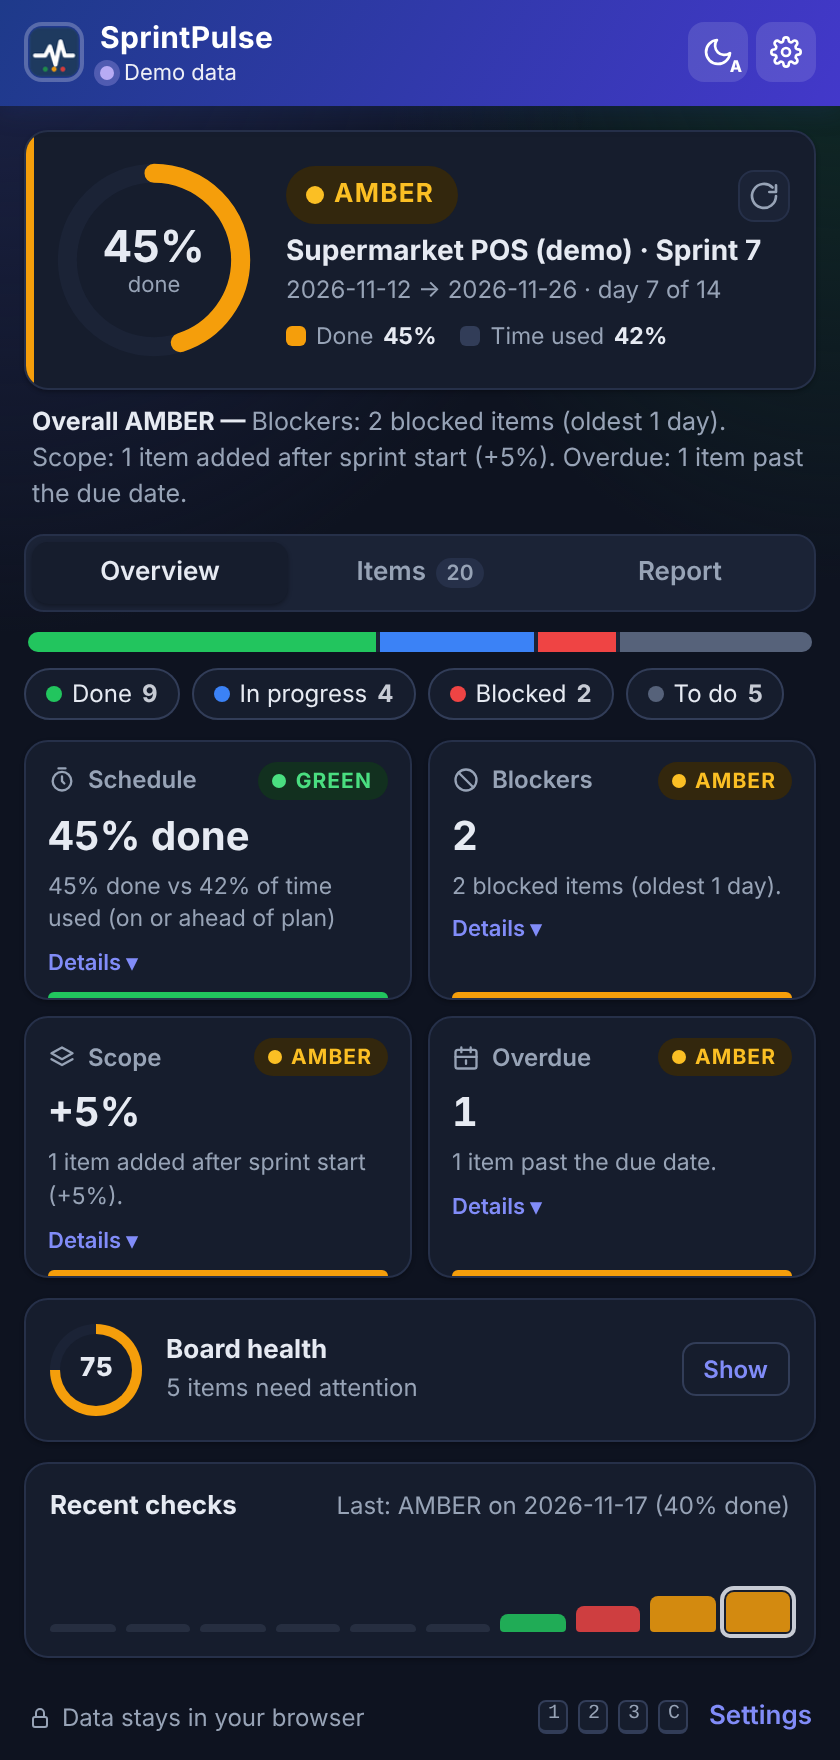
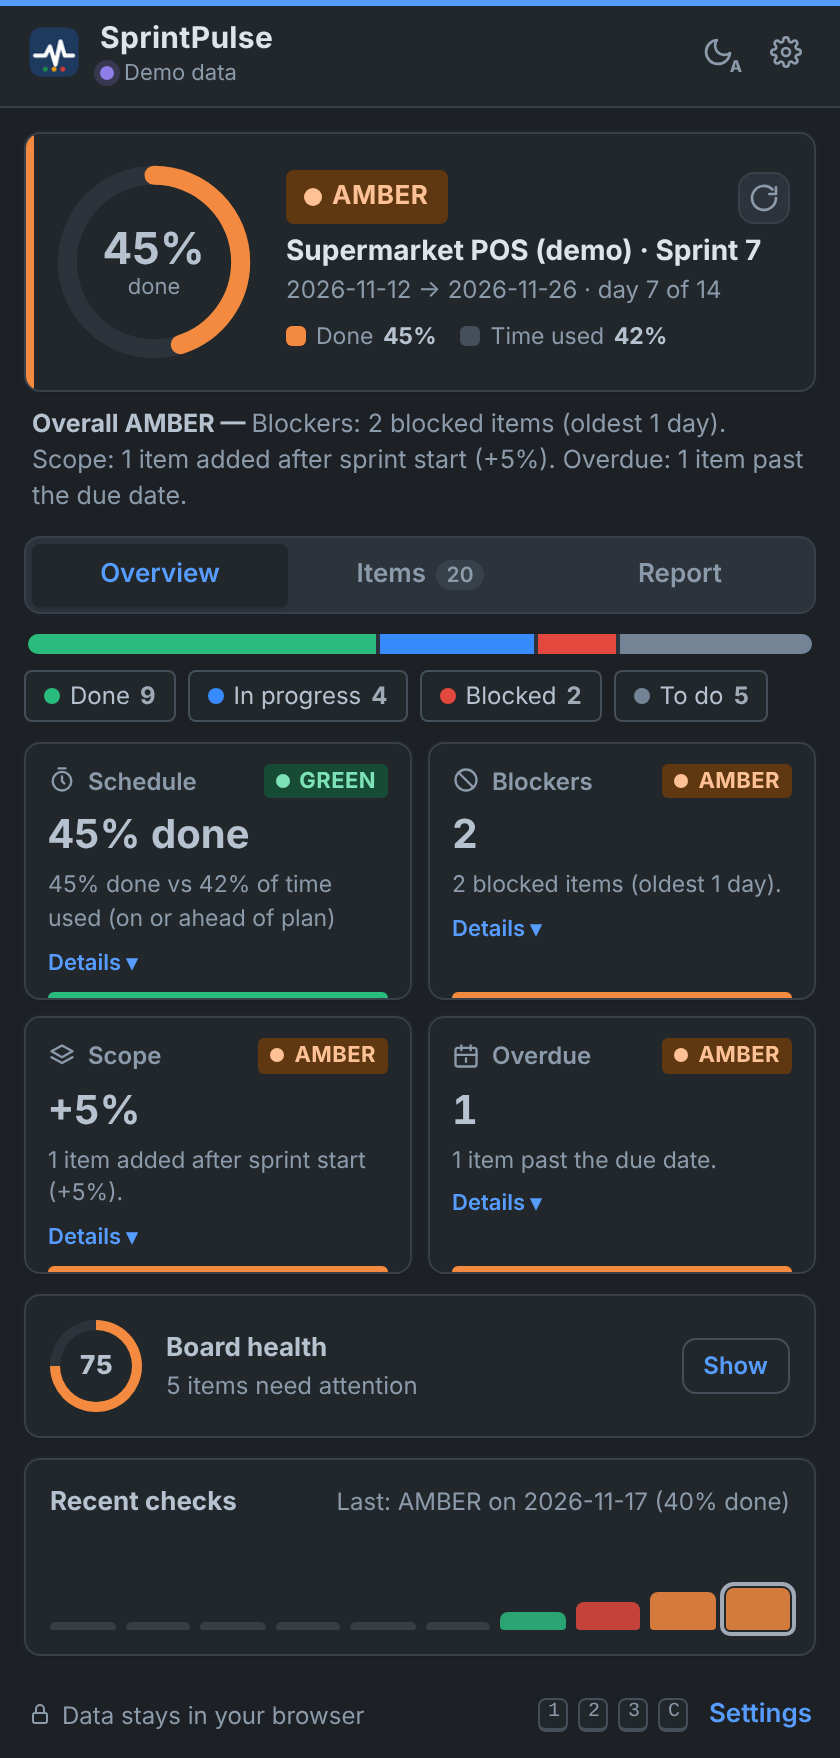
Match the colour palette to Jira (Atlassian) and Trello defaults
- Neutrals, text, borders and shadows follow the Atlassian design-system palette (light and dark)
- Jira blue accent by default; Trello blue when a Trello board is detected
- RAG lozenges use Atlassian success / warning / danger colours, always with text labels
- White header with accent strip, squarer 3-8px radii like Jira lozenges and buttons
- Atlassian system font stack; navy tooltips and toasts

diff --git a/popup.css b/popup.css
@@ -1,73 +1,85 @@
-/* SprintPulse UI — light & dark themes, no external assets. */
+/* SprintPulse UI. Colours follow the Atlassian (Jira) design-system palette so the popup
+   sits naturally next to Jira; the accent switches to Trello blue on Trello boards. */
 @property --p { syntax: "<number>"; inherits: false; initial-value: 0; }
 :root {
   color-scheme: light;
-  --bg: #f3f5f9;
-  --bg-grad: radial-gradient(120% 60% at 0% 0%, #e7edff 0%, transparent 60%), radial-gradient(100% 60% at 100% 0%, #e9f7f1 0%, transparent 55%);
+  --bg: #f7f8f9;
+  --bg-grad: none;
   --card: #ffffff;
-  --card-2: #f7f9fc;
-  --text: #17202c;
-  --muted: #5f6c7d;
-  --line: #e2e7ef;
-  --line-2: #d3dae5;
-  --brand-1: #1e3a8a;
-  --brand-2: #4338ca;
-  --accent: #4f46e5;
-  --accent-hover: #4338ca;
-  --accent-soft: #eef0ff;
-  --green: #15803d;  --green-bg: #e3f6ea;  --green-solid: #22c55e;
-  --amber: #a85b00;  --amber-bg: #fff1d6;  --amber-solid: #f59e0b;
-  --red: #b91c1c;    --red-bg: #fde6e6;    --red-solid: #ef4444;
-  --blue-solid: #3b82f6;
-  --grey-solid: #a3aec0;
-  --shadow: 0 1px 2px rgba(16, 24, 40, .05), 0 2px 8px rgba(16, 24, 40, .05);
-  --shadow-lg: 0 10px 30px rgba(16, 24, 40, .14);
-  --radius: 12px;
+  --card-2: #f1f2f4;
+  --text: #172b4d;
+  --text-strong: #091e42;
+  --muted: #626f86;
+  --line: #dcdfe4;
+  --line-2: #b3b9c4;
+  --accent: #0c66e4;
+  --accent-hover: #0055cc;
+  --accent-soft: #e9f2ff;
+  --on-accent: #ffffff;
+  --green: #216e4e;  --green-bg: #dcfff1;  --green-solid: #22a06b;
+  --amber: #a54800;  --amber-bg: #fff3eb;  --amber-solid: #f38a3f;
+  --red: #ae2e24;    --red-bg: #ffeceb;    --red-solid: #e2483d;
+  --blue-solid: #1d7afc;
+  --grey-solid: #8590a2;
+  --shadow: 0 1px 1px #091e4240, 0 0 1px #091e424f;
+  --shadow-lg: 0 8px 12px #091e4226, 0 0 1px #091e424f;
+  --radius: 8px;
+  --radius-sm: 4px;
   --ease: cubic-bezier(.2, .8, .2, 1);
 }
+/* Trello boards: Trello blue accent */
+:root[data-source="trello"] { --accent: #0079bf; --accent-hover: #026aa7; --accent-soft: #e4f0f6; }
 
 @media (prefers-color-scheme: dark) {
   :root:not([data-theme="light"]) {
     color-scheme: dark;
-    --bg: #0e1320;
-    --bg-grad: radial-gradient(120% 60% at 0% 0%, #1b2246 0%, transparent 60%), radial-gradient(100% 60% at 100% 0%, #0f2a25 0%, transparent 55%);
-    --card: #161d2d;
-    --card-2: #1b2336;
-    --text: #e6eaf2;
-    --muted: #97a3b6;
-    --line: #263049;
-    --line-2: #323d58;
-    --accent: #818cf8;
-    --accent-hover: #a5b4fc;
-    --accent-soft: #232a4d;
-    --green: #4ade80;  --green-bg: #12301f;
-    --amber: #fbbf24;  --amber-bg: #33270d;
-    --red: #f87171;    --red-bg: #3a1717;
-    --grey-solid: #56627a;
-    --shadow: 0 1px 2px rgba(0, 0, 0, .3);
-    --shadow-lg: 0 12px 30px rgba(0, 0, 0, .5);
+    --bg: #1d2125;
+    --bg-grad: none;
+    --card: #22272b;
+    --card-2: #2c333a;
+    --text: #b6c2cf;
+    --text-strong: #dee4ea;
+    --muted: #8c9bab;
+    --line: #38414a;
+    --line-2: #454f59;
+    --accent: #579dff;
+    --accent-hover: #85b8ff;
+    --accent-soft: #1c2b41;
+    --on-accent: #1d2125;
+    --green: #7ee2b8;  --green-bg: #164b35;  --green-solid: #2abb7f;
+    --amber: #fec195;  --amber-bg: #5f3811;  --amber-solid: #f38a3f;
+    --red: #fd9891;    --red-bg: #5d1f1a;    --red-solid: #e2483d;
+    --blue-solid: #388bff;
+    --grey-solid: #738496;
+    --shadow: 0 0 0 1px #bcd6f00a, 0 1px 1px #03040442, 0 0 1px #03040480;
+    --shadow-lg: 0 8px 12px #0304045c, 0 0 1px #03040480;
   }
+  :root[data-source="trello"]:not([data-theme="light"]) { --accent: #579dff; --accent-hover: #85b8ff; --accent-soft: #092957; }
 }
 :root[data-theme="dark"] {
   color-scheme: dark;
-  --bg: #0e1320;
-  --bg-grad: radial-gradient(120% 60% at 0% 0%, #1b2246 0%, transparent 60%), radial-gradient(100% 60% at 100% 0%, #0f2a25 0%, transparent 55%);
-  --card: #161d2d;
-  --card-2: #1b2336;
-  --text: #e6eaf2;
-  --muted: #97a3b6;
-  --line: #263049;
-  --line-2: #323d58;
-  --accent: #818cf8;
-  --accent-hover: #a5b4fc;
-  --accent-soft: #232a4d;
-  --green: #4ade80;  --green-bg: #12301f;
-  --amber: #fbbf24;  --amber-bg: #33270d;
-  --red: #f87171;    --red-bg: #3a1717;
-  --grey-solid: #56627a;
-  --shadow: 0 1px 2px rgba(0, 0, 0, .3);
-  --shadow-lg: 0 12px 30px rgba(0, 0, 0, .5);
+  --bg: #1d2125;
+  --bg-grad: none;
+  --card: #22272b;
+  --card-2: #2c333a;
+  --text: #b6c2cf;
+  --text-strong: #dee4ea;
+  --muted: #8c9bab;
+  --line: #38414a;
+  --line-2: #454f59;
+  --accent: #579dff;
+  --accent-hover: #85b8ff;
+  --accent-soft: #1c2b41;
+  --on-accent: #1d2125;
+  --green: #7ee2b8;  --green-bg: #164b35;  --green-solid: #2abb7f;
+  --amber: #fec195;  --amber-bg: #5f3811;  --amber-solid: #f38a3f;
+  --red: #fd9891;  --red-bg: #5d1f1a;  --red-solid: #e2483d;
+  --blue-solid: #388bff;
+  --grey-solid: #738496;
+  --shadow: 0 0 0 1px #bcd6f00a, 0 1px 1px #03040442, 0 0 1px #03040480;
+  --shadow-lg: 0 8px 12px #0304045c, 0 0 1px #03040480;
 }
+:root[data-theme="dark"][data-source="trello"] { --accent: #579dff; --accent-hover: #85b8ff; --accent-soft: #092957; }
 
 * { box-sizing: border-box; }
 [hidden] { display: none !important; }
@@ -77,7 +89,7 @@ body {
   width: 420px;
   min-height: 300px;
   margin: 0;
-  font: 13px/1.45 "Segoe UI", system-ui, -apple-system, Roboto, Helvetica, Arial, sans-serif;
+  font: 13px/1.45 -apple-system, BlinkMacSystemFont, "Segoe UI", Roboto, Oxygen, Ubuntu, "Fira Sans", "Helvetica Neue", sans-serif;
   color: var(--text);
   background: var(--bg-grad), var(--bg);
   -webkit-font-smoothing: antialiased;
@@ -90,30 +102,31 @@ svg { width: 16px; height: 16px; fill: none; stroke: currentColor; stroke-width:
   position: sticky; top: 0; z-index: 5;
   display: flex; align-items: center; justify-content: space-between;
   padding: 10px 12px 10px 14px;
-  background: linear-gradient(120deg, var(--brand-1), var(--brand-2));
-  color: #fff;
-  box-shadow: 0 2px 12px rgba(30, 58, 138, .25);
+  background: var(--card);
+  color: var(--text-strong);
+  border-bottom: 1px solid var(--line);
+  box-shadow: inset 0 3px 0 var(--accent);
 }
 .brand { display: flex; align-items: center; gap: 10px; }
-.brand img { border-radius: 7px; box-shadow: 0 0 0 2px rgba(255, 255, 255, .25); }
+.brand img { border-radius: 6px; }
 .brand-text { display: flex; flex-direction: column; line-height: 1.15; }
 .brand-name { font-weight: 700; font-size: 15px; letter-spacing: .01em; }
-.badge { display: inline-flex; align-items: center; gap: 5px; margin-top: 3px; font-size: 11px; opacity: .92; }
-.badge .dot { width: 7px; height: 7px; border-radius: 50%; background: #cbd5e1; }
-.badge.jira .dot { background: #60a5fa; box-shadow: 0 0 0 3px rgba(96, 165, 250, .3); }
-.badge.trello .dot { background: #38bdf8; box-shadow: 0 0 0 3px rgba(56, 189, 248, .3); }
-.badge.demo .dot { background: #c4b5fd; box-shadow: 0 0 0 3px rgba(196, 181, 253, .3); }
-.badge.none .dot { background: #fca5a5; }
+.badge { display: inline-flex; align-items: center; gap: 5px; margin-top: 3px; font-size: 11px; color: var(--muted); }
+.badge .dot { width: 7px; height: 7px; border-radius: 50%; background: var(--grey-solid); }
+.badge.jira .dot { background: #1868db; box-shadow: 0 0 0 3px #1868db33; }
+.badge.trello .dot { background: #0079bf; box-shadow: 0 0 0 3px #0079bf33; }
+.badge.demo .dot { background: #8f7ee7; box-shadow: 0 0 0 3px #8f7ee733; }
+.badge.none .dot { background: var(--red-solid); }
 
 .top-actions { display: flex; gap: 4px; }
 .icon-btn {
   display: grid; place-items: center;
   width: 30px; height: 30px; padding: 0;
   border-radius: 8px; border: 0;
-  background: rgba(255, 255, 255, .12); color: inherit; cursor: pointer;
+  background: transparent; color: var(--muted); cursor: pointer;
   transition: background .15s, transform .15s var(--ease);
 }
-.icon-btn:hover { background: rgba(255, 255, 255, .24); }
+.icon-btn:hover { background: var(--card-2); color: var(--accent); }
 .icon-btn:active { transform: scale(.92); }
 .icon-btn.small { width: 26px; height: 26px; background: var(--card-2); color: var(--muted); border: 1px solid var(--line); }
 .icon-btn.small:hover { color: var(--accent); border-color: var(--accent); background: var(--accent-soft); }
@@ -144,7 +157,7 @@ a { color: var(--accent); }
 .intro-head { display: flex; gap: 12px; align-items: flex-start; margin-bottom: 10px; }
 .intro-title { margin: 0 0 2px; font-size: 15px; }
 .intro-text { margin: 0; color: var(--muted); }
-.pulse-mark { flex: none; display: flex; align-items: end; gap: 3px; width: 36px; height: 36px; padding: 8px; border-radius: 10px; background: var(--accent-soft); }
+.pulse-mark { flex: none; display: flex; align-items: end; gap: 3px; width: 36px; height: 36px; padding: 8px; border-radius: var(--radius); background: var(--accent-soft); }
 .pulse-mark span { flex: 1; border-radius: 2px; background: var(--accent); animation: bars 1.2s ease-in-out infinite; }
 .pulse-mark span:nth-child(1) { height: 40%; }
 .pulse-mark span:nth-child(2) { height: 90%; animation-delay: .15s; }
@@ -157,7 +170,7 @@ a { color: var(--accent); }
 .field .opt { font-weight: 400; opacity: .8; }
 .field input {
   display: block; width: 100%; margin-top: 3px; padding: 7px 9px;
-  border: 1px solid var(--line-2); border-radius: 8px;
+  border: 1px solid var(--line-2); border-radius: var(--radius-sm);
   font: inherit; font-weight: 400; color: var(--text); background: var(--card);
   transition: border-color .15s, box-shadow .15s;
 }
@@ -172,15 +185,14 @@ button { font: inherit; cursor: pointer; }
 .btn {
   position: relative; overflow: hidden;
   display: inline-flex; align-items: center; justify-content: center; gap: 6px;
-  padding: 8px 14px; border-radius: 9px; border: 1px solid transparent;
+  padding: 7px 14px; border-radius: var(--radius-sm); border: 1px solid transparent;
   font-weight: 600;
   transition: background .15s, border-color .15s, color .15s, transform .12s var(--ease), box-shadow .15s;
 }
 .btn:active:not(:disabled) { transform: scale(.97); }
 .btn:disabled { opacity: .6; cursor: progress; }
-.btn.primary { background: var(--accent); color: #fff; box-shadow: 0 2px 8px rgba(79, 70, 229, .3); }
-[data-scheme="dark"] .btn.primary { color: #111827; }
-.btn.primary:hover:not(:disabled) { background: var(--accent-hover); box-shadow: 0 4px 14px rgba(79, 70, 229, .35); }
+.btn.primary { background: var(--accent); color: var(--on-accent); }
+.btn.primary:hover:not(:disabled) { background: var(--accent-hover); }
 .btn.ghost { background: var(--card); color: var(--accent); border-color: var(--line-2); }
 .btn.ghost:hover:not(:disabled) { border-color: var(--accent); background: var(--accent-soft); }
 .btn.tiny { padding: 4px 10px; font-size: 12px; border-radius: 7px; margin-left: auto; }
@@ -190,13 +202,13 @@ button { font: inherit; cursor: pointer; }
 
 .chip {
   display: inline-flex; align-items: center; gap: 5px;
-  padding: 3px 10px; border-radius: 999px;
+  padding: 3px 9px; border-radius: var(--radius-sm);
   border: 1px solid var(--line-2); background: var(--card); color: var(--text);
   font-size: 12px; transition: all .15s;
 }
 .chip:hover { border-color: var(--accent); color: var(--accent); }
 .chip.active { background: var(--accent); border-color: var(--accent); color: #fff; }
-[data-scheme="dark"] .chip.active { color: #111827; }
+.chip.active { color: var(--on-accent); }
 .chip .n { font-weight: 700; opacity: .85; }
 .chip .sw { width: 8px; height: 8px; border-radius: 50%; }
 
@@ -248,7 +260,7 @@ button:focus-visible, a:focus-visible, input:focus-visible, [tabindex]:focus-vis
 
 .hero-text { min-width: 0; flex: 1; }
 .hero-top { display: flex; align-items: center; justify-content: space-between; margin-bottom: 4px; }
-.sprint-title { font-weight: 700; font-size: 14px; overflow-wrap: anywhere; }
+.sprint-title { font-weight: 700; font-size: 14px; color: var(--text-strong); overflow-wrap: anywhere; }
 .legend { display: flex; gap: 12px; margin-top: 6px; font-size: 11.5px; color: var(--muted); }
 .legend span { display: inline-flex; align-items: center; gap: 5px; }
 .legend i { width: 10px; height: 10px; border-radius: 3px; display: inline-block; }
@@ -265,23 +277,23 @@ button:focus-visible, a:focus-visible, input:focus-visible, [tabindex]:focus-vis
 /* ---------- RAG badges (always colour + text) ---------- */
 .rag {
   display: inline-flex; align-items: center; gap: 5px;
-  font-weight: 700; border-radius: 999px;
-  padding: 2px 8px 2px 7px; font-size: 10.5px; letter-spacing: .05em;
+  font-weight: 700; border-radius: 3px;
+  padding: 1px 6px; font-size: 11px; letter-spacing: .02em;
 }
 .rag::before { content: ""; width: 7px; height: 7px; border-radius: 50%; background: currentColor; }
-.rag.big { font-size: 13px; padding: 5px 12px 5px 10px; }
+.rag.big { font-size: 13px; padding: 4px 10px 4px 9px; border-radius: var(--radius-sm); }
 .rag.big::before { width: 9px; height: 9px; box-shadow: 0 0 0 0 currentColor; animation: beacon 2s ease-out infinite; }
 .rag-green { background: var(--green-bg); color: var(--green); }
 .rag-amber { background: var(--amber-bg); color: var(--amber); }
 .rag-red { background: var(--red-bg); color: var(--red); }
 
 /* ---------- tabs ---------- */
-.tabs { position: relative; display: flex; gap: 2px; padding: 3px; margin-bottom: 10px; background: var(--card-2); border: 1px solid var(--line); border-radius: 10px; }
-.tab { position: relative; z-index: 1; flex: 1; padding: 6px 8px; border: 0; border-radius: 8px; background: transparent; color: var(--muted); font-weight: 600; transition: color .2s; }
+.tabs { position: relative; display: flex; gap: 2px; padding: 3px; margin-bottom: 10px; background: var(--card-2); border: 1px solid var(--line); border-radius: var(--radius); }
+.tab { position: relative; z-index: 1; flex: 1; padding: 6px 8px; border: 0; border-radius: var(--radius-sm); background: transparent; color: var(--muted); font-weight: 600; transition: color .2s; }
 .tab:hover { color: var(--text); }
-.tab.active { color: var(--text); }
+.tab.active { color: var(--accent); }
 .tab .count { display: inline-block; min-width: 18px; padding: 0 5px; margin-left: 2px; border-radius: 999px; background: var(--line); font-size: 10.5px; }
-.tab-ink { position: absolute; z-index: 0; top: 3px; bottom: 3px; left: 3px; border-radius: 8px; background: var(--card); box-shadow: var(--shadow); transition: transform .3s var(--ease), width .3s var(--ease); }
+.tab-ink { position: absolute; z-index: 0; top: 3px; bottom: 3px; left: 3px; border-radius: var(--radius-sm); background: var(--card); box-shadow: var(--shadow); transition: transform .3s var(--ease), width .3s var(--ease); }
 .pane { animation: fade .25s var(--ease) both; }
 
 /* ---------- status stack bar ---------- */
@@ -358,7 +370,7 @@ button:focus-visible, a:focus-visible, input:focus-visible, [tabindex]:focus-vis
 .item-list a.ttl:hover { color: var(--accent); text-decoration: underline; }
 .item-list .key { font-weight: 700; color: var(--muted); margin-right: 4px; font-size: 11.5px; }
 .item-list .meta { display: flex; flex-wrap: wrap; gap: 4px; margin-top: 3px; }
-.tag { display: inline-flex; align-items: center; padding: 0 7px; border-radius: 999px; font-size: 10.5px; line-height: 17px; background: var(--card-2); color: var(--muted); border: 1px solid var(--line); }
+.tag { display: inline-flex; align-items: center; padding: 0 6px; border-radius: 3px; font-size: 10.5px; line-height: 17px; background: var(--card-2); color: var(--muted); border: 1px solid var(--line); }
 .tag.warn { background: var(--amber-bg); color: var(--amber); border-color: transparent; }
 .tag.bad { background: var(--red-bg); color: var(--red); border-color: transparent; }
 .tag.person::before { content: ""; width: 6px; height: 6px; border-radius: 50%; background: currentColor; opacity: .5; margin-right: 4px; }
@@ -368,7 +380,7 @@ mark { background: var(--amber-bg); color: inherit; border-radius: 2px; padding:
 
 .search { position: relative; margin-bottom: 4px; }
 .search svg { position: absolute; left: 10px; top: 50%; transform: translateY(-50%); color: var(--muted); }
-.search input { width: 100%; padding: 8px 10px 8px 32px; border: 1px solid var(--line-2); border-radius: 9px; font: inherit; color: var(--text); background: var(--card); }
+.search input { width: 100%; padding: 8px 10px 8px 32px; border: 1px solid var(--line-2); border-radius: var(--radius-sm); font: inherit; color: var(--text); background: var(--card); }
 .search input:focus { outline: none; border-color: var(--accent); box-shadow: 0 0 0 3px var(--accent-soft); }
 
 /* ---------- trend ---------- */
@@ -382,9 +394,9 @@ mark { background: var(--amber-bg); color: inherit; border-radius: 2px; padding:
 .trend-dots .tb.now { outline: 2px solid var(--text); outline-offset: 1px; }
 
 /* ---------- report ---------- */
-.segmented { display: inline-flex; padding: 3px; margin-bottom: 8px; border-radius: 9px; background: var(--card-2); border: 1px solid var(--line); }
-.seg { padding: 4px 14px; border: 0; border-radius: 7px; background: transparent; color: var(--muted); font-weight: 600; transition: all .15s; }
-.seg.active { background: var(--card); color: var(--text); box-shadow: var(--shadow); }
+.segmented { display: inline-flex; padding: 3px; margin-bottom: 8px; border-radius: var(--radius); background: var(--card-2); border: 1px solid var(--line); }
+.seg { padding: 4px 14px; border: 0; border-radius: var(--radius-sm); background: transparent; color: var(--muted); font-weight: 600; transition: all .15s; }
+.seg.active { background: var(--card); color: var(--accent); box-shadow: var(--shadow); }
 .report {
   margin: 0 0 10px; padding: 10px 12px; max-height: 280px; overflow: auto;
   white-space: pre-wrap; word-break: break-word;
@@ -411,12 +423,12 @@ kbd { display: inline-block; min-width: 15px; padding: 0 3px; border-radius: 4px
   position: fixed; left: 50%; bottom: 14px; z-index: 20;
   display: inline-flex; align-items: center; gap: 6px;
   padding: 8px 14px; border-radius: 999px;
-  background: #111827; color: #fff; font-weight: 600; font-size: 12.5px;
+  background: #172b4d; color: #fff; font-weight: 600; font-size: 12.5px;
   box-shadow: var(--shadow-lg);
   transform: translate(-50%, 20px); opacity: 0; pointer-events: none;
   transition: transform .3s var(--ease), opacity .3s;
 }
-[data-scheme="dark"] .toast { background: #f3f4f6; color: #111827; }
+[data-scheme="dark"] .toast { background: #dee4ea; color: #1d2125; }
 .toast.show { transform: translate(-50%, 0); opacity: 1; }
 .toast::before { content: "✓"; display: grid; place-items: center; width: 16px; height: 16px; border-radius: 50%; background: var(--green-solid); color: #fff; font-size: 10px; }
 .toast.err::before { content: "!"; background: var(--red-solid); }
@@ -424,9 +436,9 @@ kbd { display: inline-block; min-width: 15px; padding: 0 3px; border-radius: 4px
 .tooltip {
   position: fixed; z-index: 30; pointer-events: none;
   padding: 5px 9px; border-radius: 7px; max-width: 240px;
-  background: #111827; color: #fff; font-size: 11.5px; box-shadow: var(--shadow-lg);
+  background: #172b4d; color: #fff; font-size: 11.5px; box-shadow: var(--shadow-lg);
 }
-[data-scheme="dark"] .tooltip { background: #f3f4f6; color: #111827; }
+[data-scheme="dark"] .tooltip { background: #dee4ea; color: #1d2125; }
 
 /* ---------- animations ---------- */
 @keyframes rise { from { opacity: 0; transform: translateY(6px); } to { opacity: 1; transform: none; } }

diff --git a/options.css b/options.css
@@ -4,9 +4,7 @@ body.options { width: auto; min-height: 100vh; padding-bottom: 90px; }
 .options main { max-width: 760px; margin: 0 auto; padding: 20px 16px; }
 .options h1 { font-size: 17px; margin: 0 0 4px; }
 
-.theme-switch { margin: 0; background: rgba(255, 255, 255, .12); border-color: rgba(255, 255, 255, .2); }
-.theme-switch .seg { color: rgba(255, 255, 255, .8); }
-.theme-switch .seg.active { background: #fff; color: #1e3a8a; }
+.theme-switch { margin: 0; }
 
 .groups { display: grid; gap: 12px; }
 .group { padding: 0; overflow: hidden; animation: rise .35s var(--ease) both; }
@@ -15,7 +13,7 @@ body.options { width: auto; min-height: 100vh; padding-bottom: 90px; }
 .group:nth-child(4) { animation-delay: .12s; }
 .group:nth-child(5) { animation-delay: .16s; }
 .group-head { display: flex; align-items: center; gap: 10px; padding: 12px 14px; border-bottom: 1px solid var(--line); background: var(--card-2); }
-.group-head .gi { display: grid; place-items: center; width: 30px; height: 30px; border-radius: 9px; background: var(--accent-soft); color: var(--accent); }
+.group-head .gi { display: grid; place-items: center; width: 30px; height: 30px; border-radius: var(--radius-sm); background: var(--accent-soft); color: var(--accent); }
 .group-head h2 { margin: 0; font-size: 14px; }
 .group-head p { margin: 0; }
 
@@ -28,7 +26,7 @@ body.options { width: auto; min-height: 100vh; padding-bottom: 90px; }
 .setting label { position: relative; }
 .setting.changed label::after { content: ""; position: absolute; left: -10px; top: 7px; width: 6px; height: 6px; border-radius: 50%; background: var(--amber-solid); }
 
-.num { display: flex; align-items: center; border: 1px solid var(--line-2); border-radius: 9px; background: var(--card); overflow: hidden; }
+.num { display: flex; align-items: center; border: 1px solid var(--line-2); border-radius: var(--radius-sm); background: var(--card); overflow: hidden; }
 .num:focus-within { border-color: var(--accent); box-shadow: 0 0 0 3px var(--accent-soft); }
 .num input { width: 100%; min-width: 0; padding: 7px 8px; border: 0; background: transparent; color: var(--text); font: inherit; font-weight: 700; text-align: center; -moz-appearance: textfield; }
 .num input::-webkit-inner-spin-button { -webkit-appearance: none; }
@@ -51,7 +49,7 @@ input[type="range"]:focus-visible::-webkit-slider-thumb { box-shadow: 0 0 0 4px 
   position: fixed; left: 50%; bottom: 16px; z-index: 10;
   display: flex; align-items: center; justify-content: space-between; gap: 16px;
   width: min(760px, calc(100vw - 32px)); padding: 10px 12px 10px 16px;
-  border-radius: 14px; background: var(--card); border: 1px solid var(--line);
+  border-radius: var(--radius); background: var(--card); border: 1px solid var(--line);
   box-shadow: var(--shadow-lg);
   transform: translateX(-50%);
   transition: border-color .2s, box-shadow .2s;

diff --git a/popup.js b/popup.js
@@ -231,6 +231,7 @@
 
   function setBadge(kind, text) {
     $('sourceBadge').className = 'badge ' + kind;
+    document.documentElement.setAttribute('data-source', kind);
     $('sourceText').textContent = text;
   }
 
